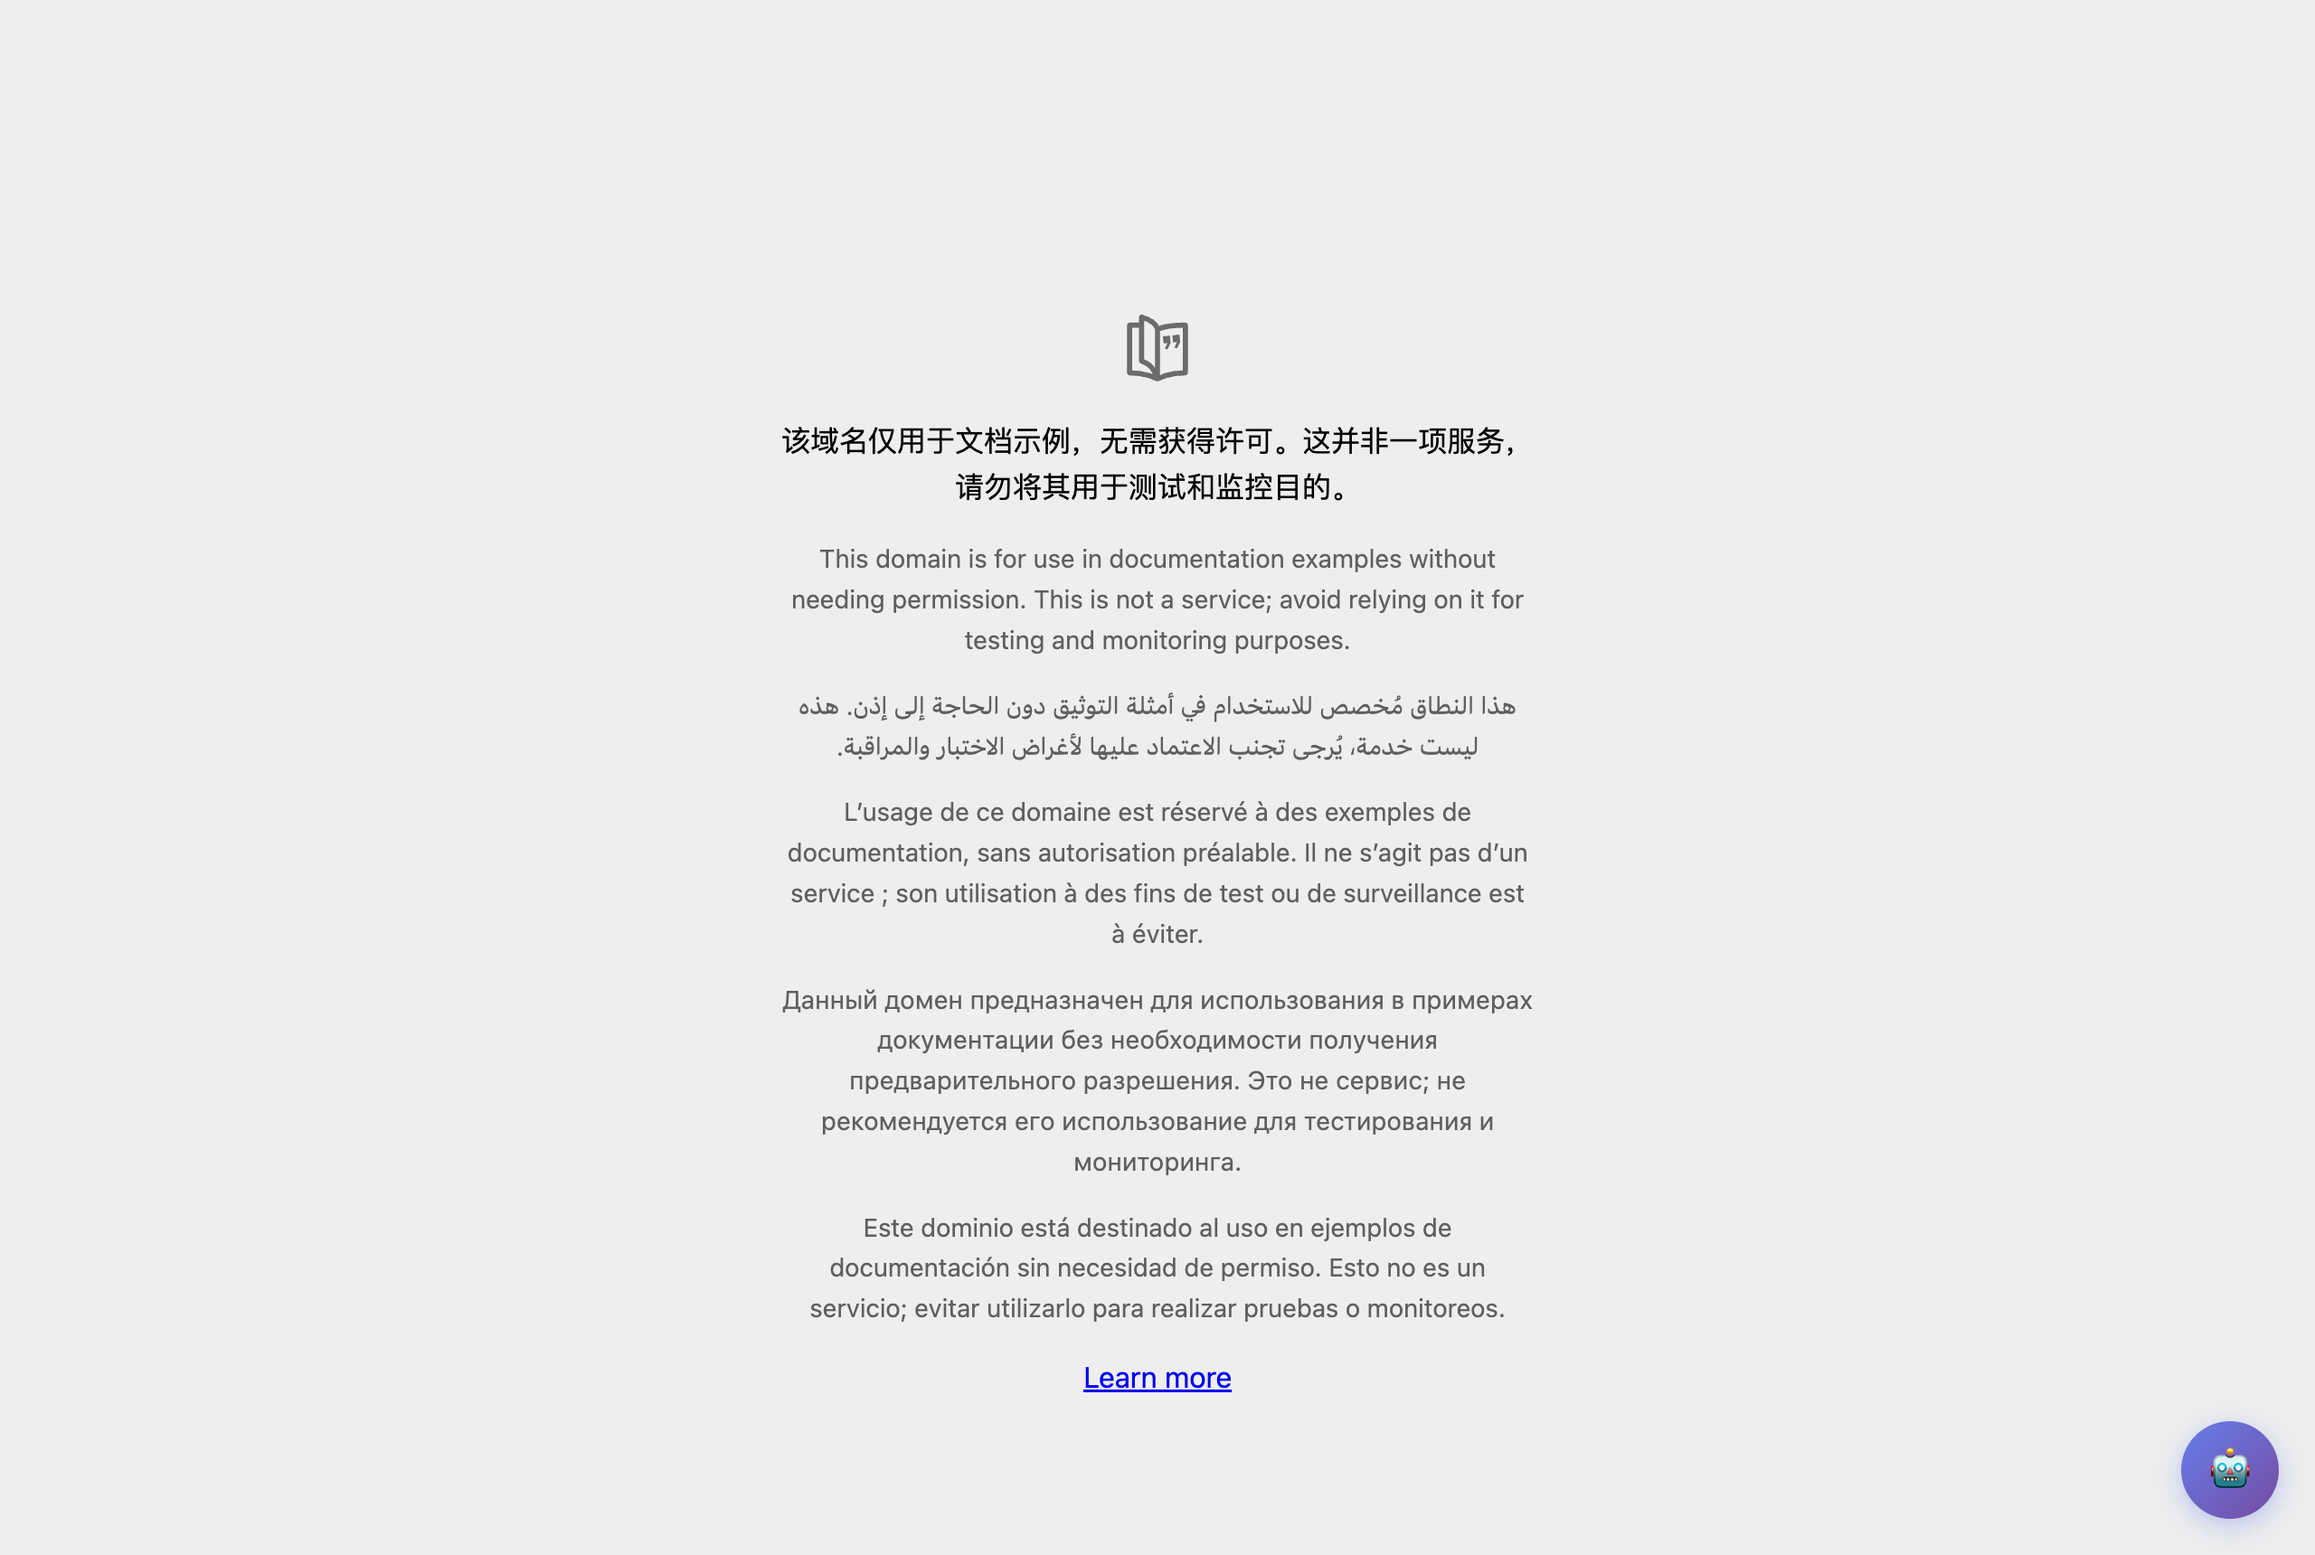
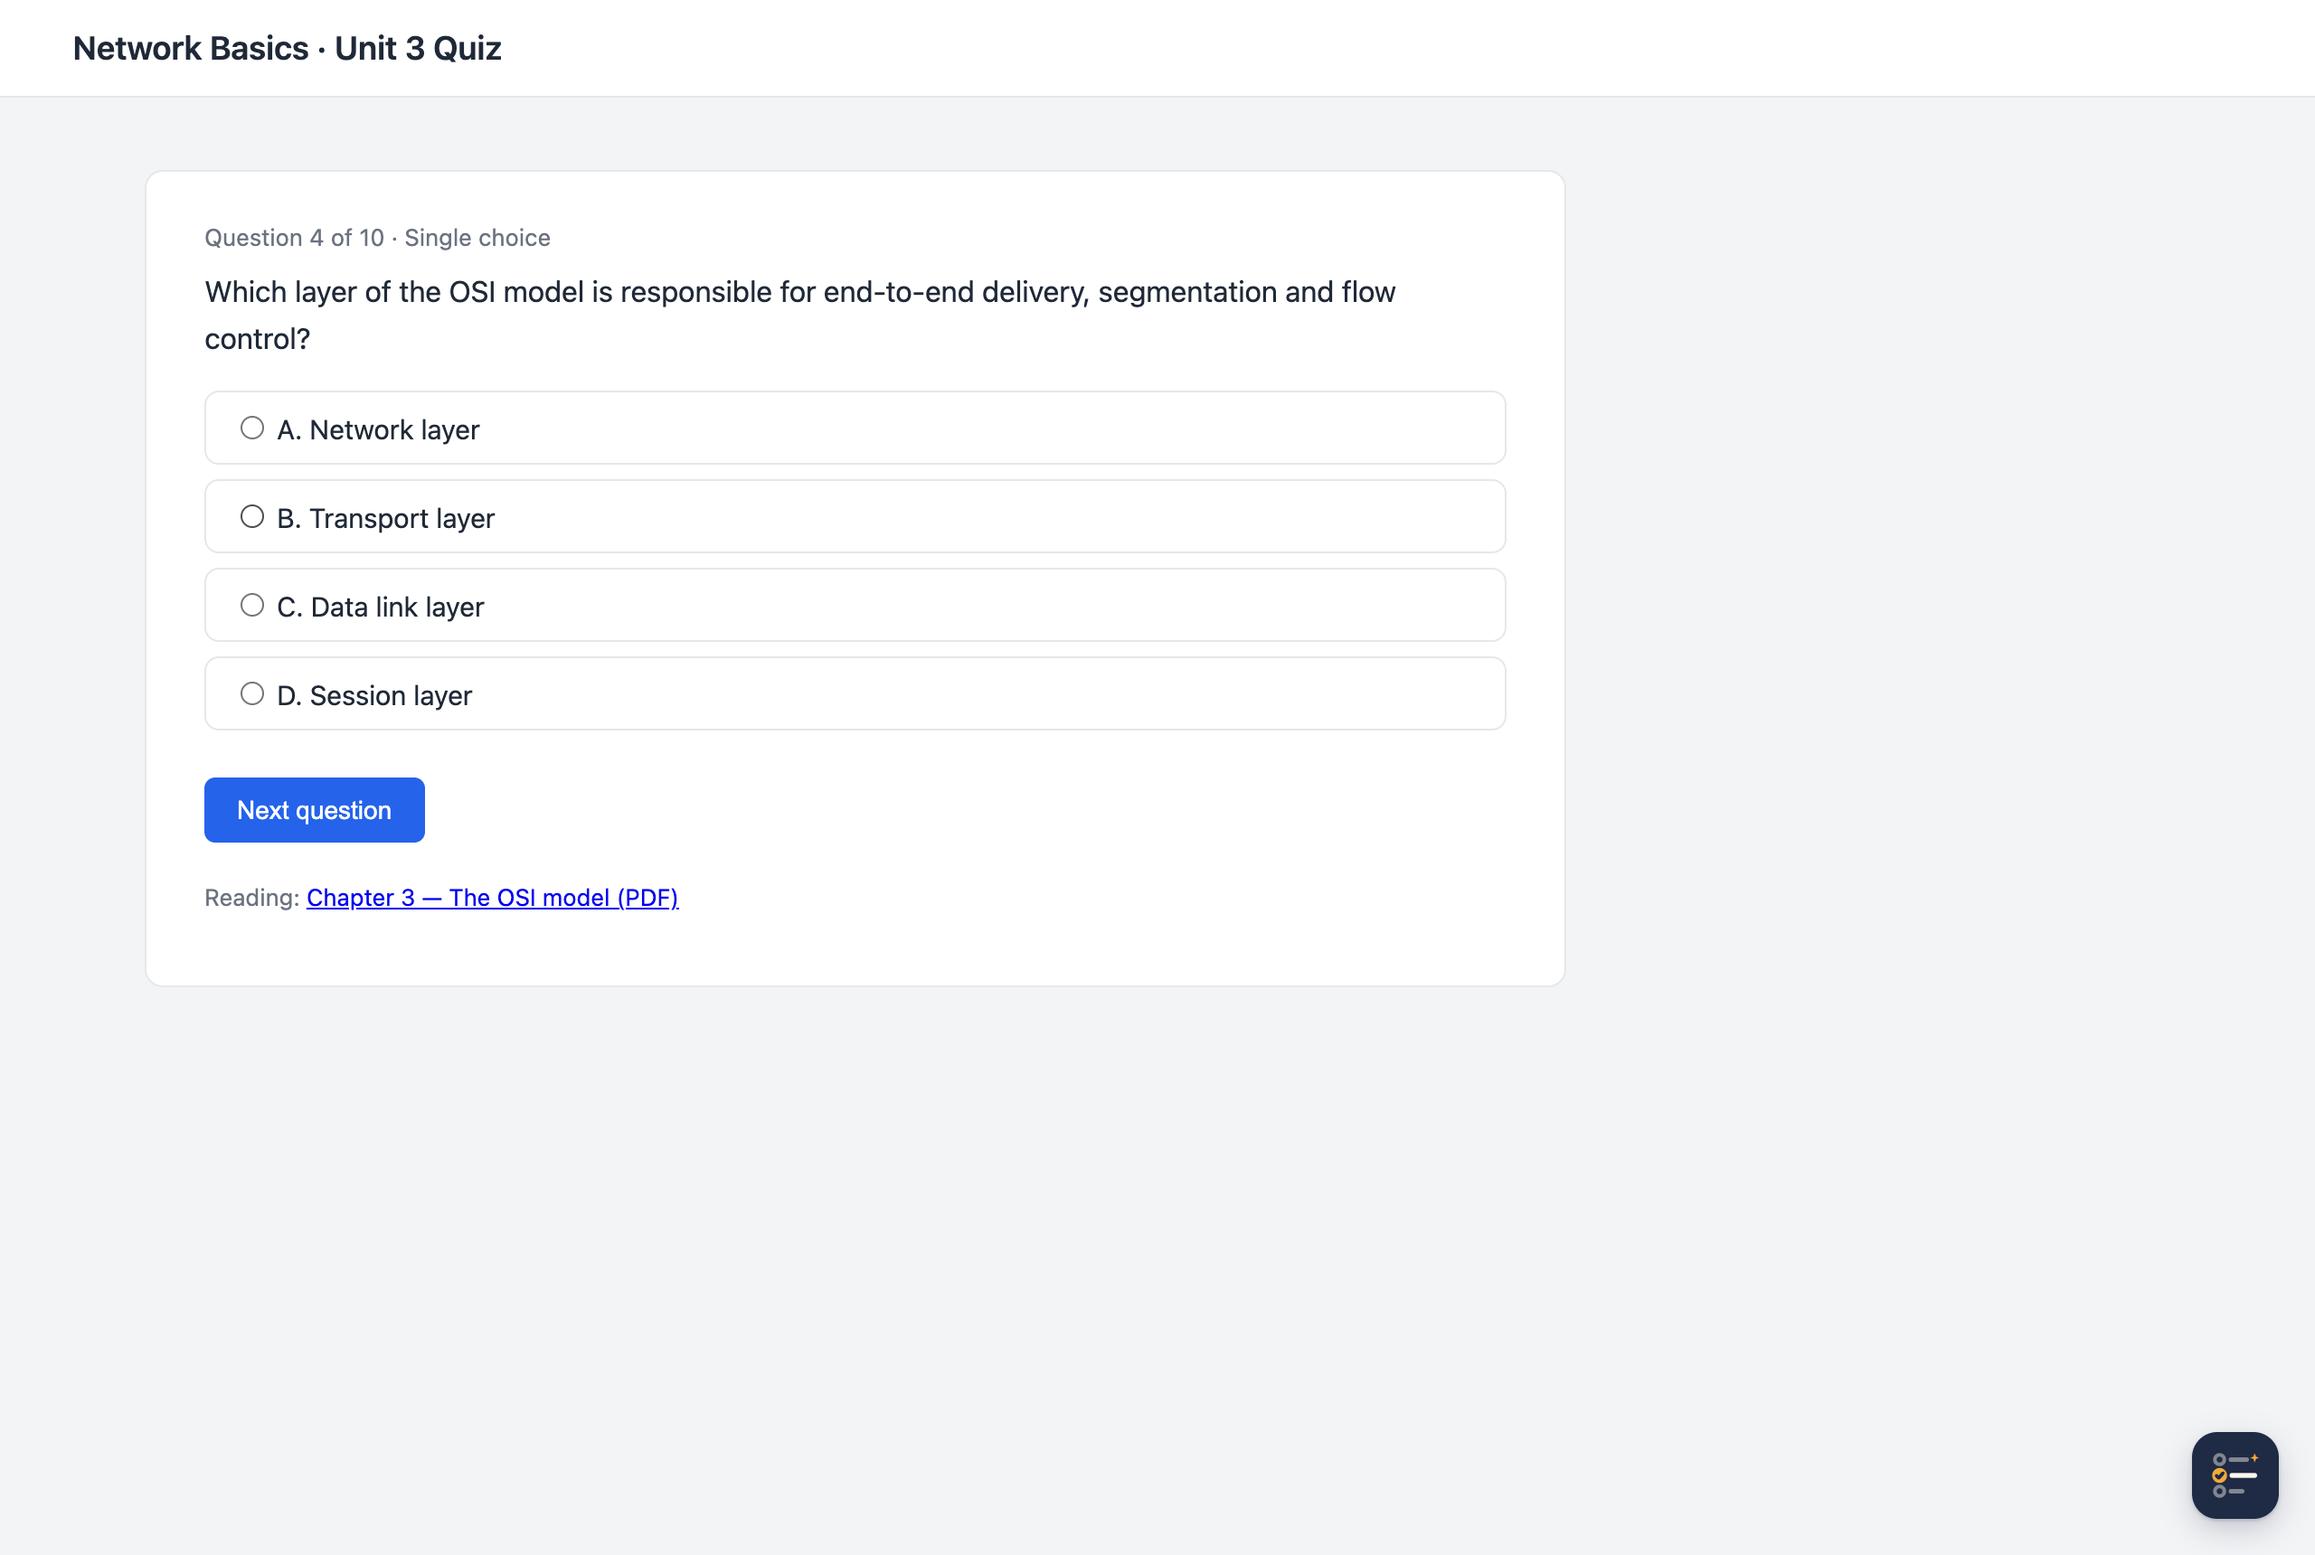
docs: refresh README screenshots for new design (EN/ZH, AI tab, dark theme)

diff --git a/README.zh-CN.md b/README.zh-CN.md
@@ -60,19 +60,21 @@ git tag v0.2.0 && git push --follow-tags
 
 安装后，在任意生效网站页面右下角会出现悬浮按钮，点击（或按 `Alt+Q`）打开面板：
 
-![悬浮按钮](docs/screenshots/01-floating-button.png)
+![悬浮按钮](docs/screenshots/01-floating-button-zh.png)
 
 ### 2. 配置 AI 服务商
 
 在 **AI** 标签中选择服务商、填入 API Key、选择模型（或点「刷新列表」拉取可用模型），AI 回答语言也在这里设置。**设置** 标签里是界面语言、配色、生效域名、快捷键和跨设备同步：
 
-![设置标签](docs/screenshots/04-config-tab.png)
+![AI 标签](docs/screenshots/04-ai-tab-zh.png)
+
+![设置标签](docs/screenshots/05-settings-tab-zh.png)
 
 ### 3. 加载参考文档（可选）
 
 在 **文档** 标签中上传本地文件（PDF / Word / TXT / Markdown）或粘贴链接，支持多选和网页链接自动识别：
 
-![文档标签](docs/screenshots/03-docs-tab.png)
+![文档标签](docs/screenshots/03-docs-tab-zh.png)
 
 也可以点 **扫描当前页面** 自动检测页面内嵌的 PDF（`iframe` / `embed` / 页面链接），一键加载为参考文档。跨域 iframe 中的 PDF 也能扫到：扩展会在每个 iframe 内运行并通过消息中继汇总结果（支持多层嵌套）。注意扫描时需等页面（含 iframe）完全加载。
 
@@ -86,7 +88,7 @@ git tag v0.2.0 && git push --follow-tags
 
 然后点击 **AI 作答** 获取答案：
 
-![答题标签](docs/screenshots/02-answer-tab.png)
+![答题标签](docs/screenshots/02-answer-tab-zh.png)
 
 ## 语言设置
 
@@ -98,6 +100,8 @@ git tag v0.2.0 && git push --follow-tags
 ## 配色
 
 在 **设置** 标签中选择 **跟随系统**（默认，按系统明/暗模式自动切换）、**浅色** 或 **深色**，切换后立即生效。
+
+![深色配色](docs/screenshots/06-dark-theme-zh.png)
 
 ## 生效域名
 

diff --git a/README.md b/README.md
@@ -56,8 +56,6 @@ git tag v0.2.0 && git push --follow-tags
 
 ## Usage
 
-> The screenshots below show the Chinese UI; the English UI has the same layout.
-
 ### 1. Open the panel
 
 After installing, a floating button appears at the bottom right of any enabled page. Click it (or press `Alt+Q`) to open the panel:
@@ -68,7 +66,9 @@ After installing, a floating button appears at the bottom right of any enabled p
 
 In the **AI** tab, choose the provider, enter your API key and pick a model (or click Refresh to fetch the available ones); the AI answer language is set here too. The **Settings** tab holds the interface language, theme, active domains, hotkeys and sync:
 
-![Settings tab](docs/screenshots/04-config-tab.png)
+![AI tab](docs/screenshots/04-ai-tab.png)
+
+![Settings tab](docs/screenshots/05-settings-tab.png)
 
 ### 3. Load reference documents (optional)
 
@@ -100,6 +100,8 @@ Two separate options:
 ## Theme
 
 In the **Settings** tab, pick **Auto** (follows the system light/dark setting, default), **Light** or **Dark**. The change applies immediately.
+
+![Dark theme](docs/screenshots/06-dark-theme.png)
 
 ## Active domains
 
